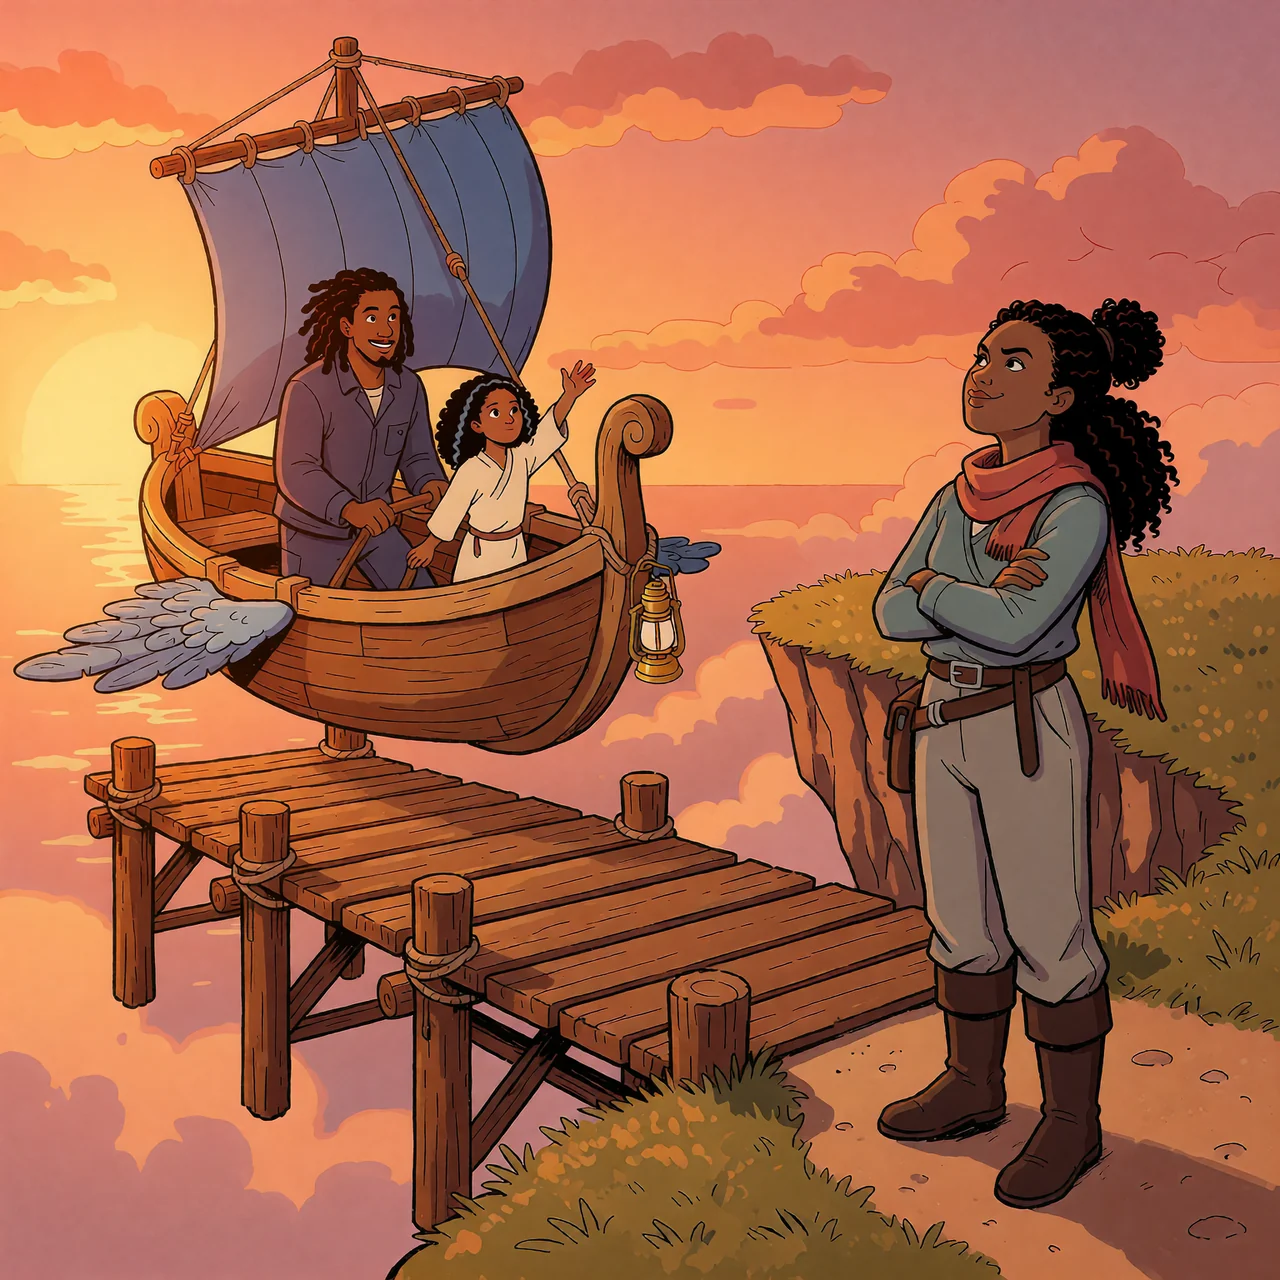
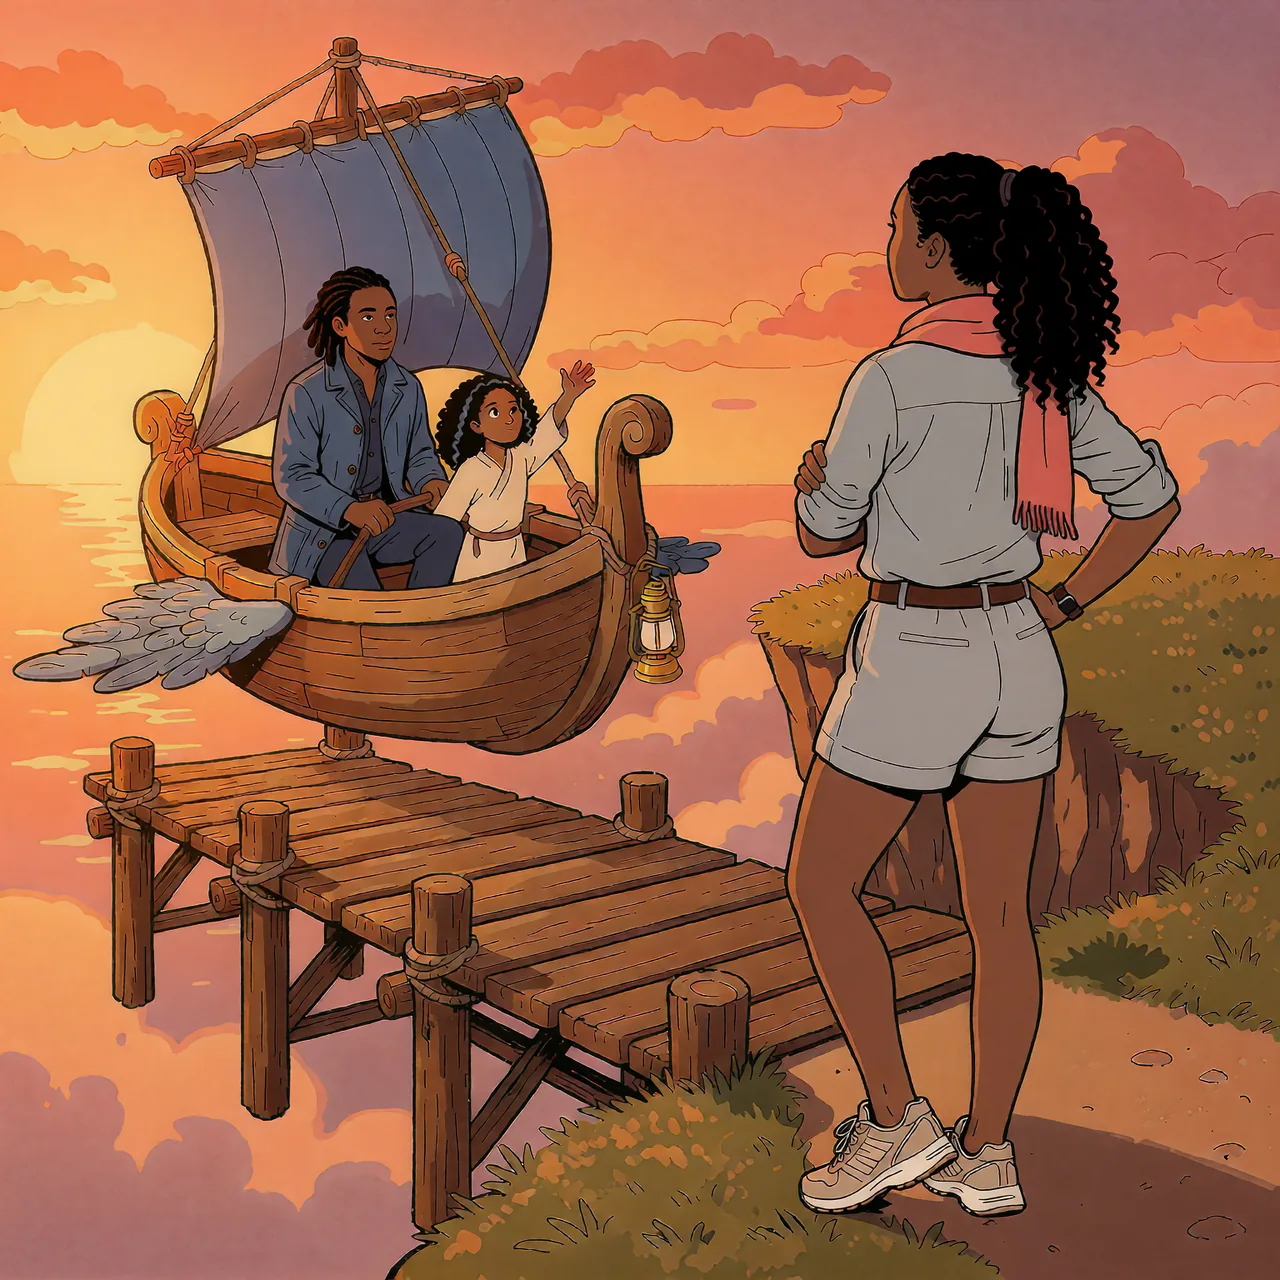
Run 3: Hesta's 'You never know when to stop, Rook.' at the children's match point, the stones shown after it; the Offering's line 17 reworded; skiff arrival redrawn again
Claude-Session: https://claude.ai/code/session_01JTmPYBGE5RJi7qTbK5Qior

diff --git a/src/server/granny.ts b/src/server/granny.ts
@@ -15,6 +15,8 @@ import { VOICE_SECONDS } from "../engine/voice-durations.js";
 import { realClock, type Clock } from "./room.js";
 
 // The player is always id 1: Rook or Lumi, as GRANNY.player says.
+/** Hesta at the children's match point; the Offering says "You never did know when to stop, Rook." */
+const MATCH_LINE = "You never know when to stop, Rook.";
 const PLAYER_IS_ROOK = GRANNY.player === "rook";
 const ROOK_ID = PLAYER_IS_ROOK ? 1 : 2;
 const LUMI_ID = PLAYER_IS_ROOK ? 2 : 1;
@@ -65,11 +67,15 @@ export class GrannyRoom {
   /** The tick the line now playing is done, and whether it's a key line. */
   private busyUntil = 0;
   private busyKey = false;
+  /** The line now playing, so the hold doesn't cut off one it keeps. */
+  private playing = "";
   private lastKey = -99;
   /** Groups (lines said together on one tick) that have started, so the rest of them always play; and dropped ones. */
   private started = new Set<number>();
   private dropped = new Set<number>();
   private holdTick = 0;
+  /** When Hesta's match point line ends; the stones show then, after she has said it. */
+  private plantEnds = Infinity;
   private rushing = false;
   /** Lumi's tide pull, seen in front of Hesta (tick), or -1. */
   private tideSeen = -1;
@@ -173,6 +179,8 @@ export class GrannyRoom {
     this.queue = [];
     this.busyUntil = 0;
     this.busyKey = false;
+    this.playing = "";
+    this.plantEnds = Infinity;
     this.lastKey = -99;
     this.started = new Set();
     this.dropped = new Set();
@@ -463,6 +471,14 @@ export class GrannyRoom {
 
   private afterStep() {
     const g = this.game;
+    // Match point reached: "One more!" and Hesta's plant for the Offering (story thread, 25 Nov,
+    // Ladi: "I like the know when to stop."). Key lines, before the hold below, so they play every time.
+    if (this.kidsScore() >= GRANNY.target - 1 && !this.said.has("match")) {
+      this.said.add("match");
+      const kid = this.scoreTurn++ % 2;
+      this.say(kid ? SEFA : NELL, "One more!", { player: KID_IDS[kid] }, "key");
+      this.say(HESTA, MATCH_LINE, { player: HESTA_ID }, "key");
+    }
     // Match point: their next wisp to reach the rim stops dead, held in the ground.
     if (this.kidsScore() >= GRANNY.target - 1 && this.holdWisp === null) {
       const near = g.wisps.find((w) => w.guild === 0 && this.stepsOut(w) <= GRANNY.holdAt);
@@ -476,12 +492,14 @@ export class GrannyRoom {
         }
         {
           this.holdWisp = near.id;
-          this.holdTick = g.tick;
+          // The wisps stop now, but the stones and their sound wait for her line (broadcastTick).
+          this.holdTick = Math.max(g.tick, this.plantEnds);
           // Everything still waiting goes, so the hold plays clean: all but the tide exchange,
           // which must land (Hesta has to have seen the tide pull before she answers it with rock).
-          const TIDE_LINES = ["How did you do that?", "I pulled.", "Did you now."];
-          this.queue = this.queue.filter((q) => TIDE_LINES.includes(q.line.text));
-          this.busyUntil = Math.min(this.busyUntil, g.tick + 2);
+          // The match point pair stays too, and isn't cut off if it is playing.
+          const KEEP = ["How did you do that?", "I pulled.", "Did you now.", "One more!", MATCH_LINE];
+          this.queue = this.queue.filter((q) => KEEP.includes(q.line.text));
+          if (!KEEP.includes(this.playing)) this.busyUntil = Math.min(this.busyUntil, g.tick + 2);
           this.say(NELL, "No fair!", { player: KID_IDS[0] }, "key");
           this.say(SEFA, "That's cheating!", { player: KID_IDS[1] }, "key");
           this.say(LUMI, "You can't do that!", { talk: true });
@@ -530,7 +548,8 @@ export class GrannyRoom {
     // Nell and Sefa call how many they still need.
     if (g.banks.some((b) => b.guild === 0)) {
       const left = GRANNY.target - this.kidsScore();
-      if (left > 0 && this.holdWisp === null) {
+      // At nine, "One more!" comes with the match point lines above.
+      if (left > 1 && this.holdWisp === null) {
         const kid = this.scoreTurn++ % 2;
         this.say(kid ? SEFA : NELL, `${left === 1 ? "One more" : `${WORDS[left] ?? left} more`}!`, { player: KID_IDS[kid] });
       }
@@ -638,7 +657,12 @@ export class GrannyRoom {
       }
       this.started.add(q.group);
       this.lines.push(q.line);
+      this.playing = q.line.text;
       this.busyUntil = now + lineTicks(q.line);
+      if (q.line.text === MATCH_LINE) {
+        this.plantEnds = this.busyUntil;
+        if (this.holdWisp !== null) this.holdTick = this.plantEnds;
+      }
       this.busyKey = q.key;
       if (q.key) this.lastKey = now;
     }
@@ -697,7 +721,10 @@ export class GrannyRoom {
 
   private broadcastTick() {
     this.send?.({ t: "room", room: this.view() });
-    this.send?.({ t: "tick", snap: this.game.snapshot(), tickMs: TICK_MS });
+    const snap = this.game.snapshot();
+    // Held but not yet shown: the wisps wait, unstoned, while Hesta finishes her line.
+    if (this.holdWisp !== null && this.game.tick < this.holdTick) snap.wisps = snap.wisps.map(({ rooted: _, ...w }) => w);
+    this.send?.({ t: "tick", snap, tickMs: TICK_MS });
   }
 
   /** For tests. */

diff --git a/src/client/part1.ts b/src/client/part1.ts
@@ -206,7 +206,7 @@ export const HELD: Record<string, Held> = {
       { slot: "offering-14", hold: 0.7, lines: [{ who: ["Rook"], text: "Then me. Put me out there.", quiet: true }] },
       { slot: "offering-15", hold: 1.2, lines: [{ who: ["Hesta"], text: "You? There's no light in you to give.", quiet: true }] },
       { slot: "offering-16", hold: 0.6, lines: [{ who: ["Rook"], text: "Please.", quiet: true }] },
-      { slot: "offering-17", hold: 1.2, lines: [{ who: ["Hesta"], text: "Now you're getting on my nerves.", quiet: true }] },
+      { slot: "offering-17", hold: 1.2, lines: [{ who: ["Hesta"], text: "You never did know when to stop, Rook.", quiet: true }] },
       { slot: "offering-18", hold: 2.5 },
       { slot: "offering-19", hold: 2.5 },
       { slot: "offering-20", hold: 2 },

diff --git a/tests/granny.test.ts b/tests/granny.test.ts
@@ -44,6 +44,11 @@ describe("Run 3: Granny's game", () => {
       expect(said.some((l) => l.text === "Dad hasn't got one.")).toBe(true);
       expect(said.some((l) => l.text === "Did you now.")).toBe(true);
       expect(said.some((l) => /element/i.test(l.text))).toBe(false);
+      // At nine: "One more!", then Hesta's plant, then the hold's "No fair!" (story thread, 25 Nov).
+      const at = (t: string) => said.findIndex((l) => l.text === t);
+      expect(at("One more!")).toBeGreaterThanOrEqual(0);
+      expect(at("You never know when to stop, Rook.")).toBeGreaterThan(at("One more!"));
+      expect(at("No fair!")).toBeGreaterThan(at("You never know when to stop, Rook."));
     }
   });
 

diff --git a/CREDITS.md b/CREDITS.md
@@ -27,7 +27,7 @@ subscription-only billing so no Spark was spent. Sources are in the project file
 | story/*.webp (run 1's ending and run 2's opening pictures) | Drafts from the cast and cutscene art threads (`production/story/slots/` and `production/story/v3/`, 2026-11-23), not yet approved by Ladi; converted to WebP |
 | story/kindling-underside.webp, story/kindling-heart-small.webp, story/kindling-heart-big.webp, story/kindling-hearts.webp, story/kindling-eye-glint.webp (run 1's ending: the home island from below in its horseshoe shape, both hearts down to embers; the two hearts lit as separate layers; the sky from below with home in its new shape, approved by Ladi at 11:46 AM, "Islands from below lgtm"; and home's one light among them, the 2026-11-23 glint trimmed tighter) | Painted by the cutscene thread on Sogni, 2026-11-24 (`sogni/lanternfall/production/story/v4/`), with krea2_identity_edit_v1_2 on the subscription, 0 Spark, plus its own code, as that thread reports; it says Ladi approved the underside that day and chose two hearts. ❓ That thread has not read the model's licence terms, the same caveat as the run 8 stills. Converted to WebP, same size (1536 square) | Run 1's ending, over the rim and down the underside: the small heart under the Kindling ground lights first, then the big one at the tip; then the islands from below, home's light as bright as the score |
 | story/walk-kitchen.webp (Rook's kitchen, walk 2) | The cutscene art thread's picture (`production/story/part1/kitchen/kitchen-tappable-walk2-draft-3.png`, 2026-11-24), the lantern with its approved hook handle; that thread reports Ladi's "Yes" at 11:47 AM on 2026-11-24 as covering it. ❓ It has not read the model's licence terms, the same caveat as its other pictures. Converted to WebP at 1280 px |
-| story/gt-*.webp (the glow test before run 6, seven wide pictures with two light layers), story/dream-*.webp (the dream before run 1, eight pictures), story/skiff-*.webp (the skiff coming in at sunset and leaving the next morning, 4-5, redrawn from the personas on Ladi's notes in `production/story/part1/skiff-home/final-2/`; the first set's three are no longer used), story/sendoff-*.webp (the beacon and the send-off, 8-9b, thirteen pictures), story/handoff-*.webp (before the stranger's ship, 9-10, eight pictures), story/offering-*.webp (the Offering, 11, 25 pictures, rebuilt from the game's own island in `production/story/offering/final-2/`; the first draft is no longer used) and story/hands-*.webp (Hesta's hands at night and the morning after, 7-8b, four pictures and a shake layer) | The cutscene art thread's final sets (`production/story/part1/glowtest/final/`, `production/story/dream/final/`, `production/story/part1/skiff-home/final/`, `production/story/part1/send-off/final/`, `production/story/handoff-9-10/final/`, `production/story/offering/final/` and `production/story/part1/hands/final/`, 2026-11-25), drawn on Sogni on the subscription as that thread reports, 0 Spark. Glow test: six pictures approved by Ladi on 23 and 24 Nov; gt-5-rook-proud is that thread's pick, not seen by him. Dream: all eight are that thread's picks; Ladi saw the rough storyboard only. Skiff home, send-off, hands, the pictures before the ship and the Offering: that thread's picks, not seen by Ladi. ❓ That thread has not read the model's licence terms, the same caveat as its other pictures. Converted to WebP (glow test 1920x1080, dream 1024x768) | Part 1's held-picture scenes 0, 4-5, 5-6b, 7-8b, 8-9b, 9-10 and 11 (`src/client/part1.ts` DREAM, HELD and GLOW) |
+| story/gt-*.webp (the glow test before run 6, seven wide pictures with two light layers), story/dream-*.webp (the dream before run 1, eight pictures), story/skiff-*.webp (the skiff coming in at sunset and leaving the next morning, 4-5, redrawn from the personas on Ladi's notes in `production/story/part1/skiff-home/final-3/` (the arrival) and `final-2/` (leaving); the first set's three are no longer used), story/sendoff-*.webp (the beacon and the send-off, 8-9b, thirteen pictures), story/handoff-*.webp (before the stranger's ship, 9-10, eight pictures), story/offering-*.webp (the Offering, 11, 25 pictures, rebuilt from the game's own island in `production/story/offering/final-2/`; the first draft is no longer used) and story/hands-*.webp (Hesta's hands at night and the morning after, 7-8b, four pictures and a shake layer) | The cutscene art thread's final sets (`production/story/part1/glowtest/final/`, `production/story/dream/final/`, `production/story/part1/skiff-home/final/`, `production/story/part1/send-off/final/`, `production/story/handoff-9-10/final/`, `production/story/offering/final/` and `production/story/part1/hands/final/`, 2026-11-25), drawn on Sogni on the subscription as that thread reports, 0 Spark. Glow test: six pictures approved by Ladi on 23 and 24 Nov; gt-5-rook-proud is that thread's pick, not seen by him. Dream: all eight are that thread's picks; Ladi saw the rough storyboard only. Skiff home, send-off, hands, the pictures before the ship and the Offering: that thread's picks, not seen by Ladi. ❓ That thread has not read the model's licence terms, the same caveat as its other pictures. Converted to WebP (glow test 1920x1080, dream 1024x768) | Part 1's held-picture scenes 0, 4-5, 5-6b, 7-8b, 8-9b, 9-10 and 11 (`src/client/part1.ts` DREAM, HELD and GLOW) |
 | faces/kes-{alarmed,bereft}.webp, faces/grandmother-{steady,soft,talking}.webp, faces/grandfather-neutral.webp (run 9) | Bubble faces from the cast art thread (project files `sogni/lanternfall/production/bubble-faces/`, 2026-11-24), 160 px WebP as delivered. Placeholders: the grandparents' look is a first draft Ladi has not approved, and Kes's two are being re-framed | Bark bubbles and the talk box in run 9; which face goes with which line is in `src/engine/moods.ts` |
 | models/low-house-{a,b,c}.glb, models/rescue-boat.glb, models/kes-drop.glb, models/cold-brazier.glb (run 9) | Draft 1 from the maps thread (project files `sogni/lanternfall/production/places/low-one/`, 2026-11-25): concepts by Sogni AI z_image_turbo_bf16, 3D by Sogni AI pixal3d_int8_i23d, slimmed and re-baked there; the boat's lamp post is procedural | The low one in run 9, in place of the block-outs (`src/client/rescue-dress.ts`) |
 | faces/lumi-delight-flash.webp | First draft from the cast art thread; Lumi's one open-mouth face in runs 1 and 2 |
